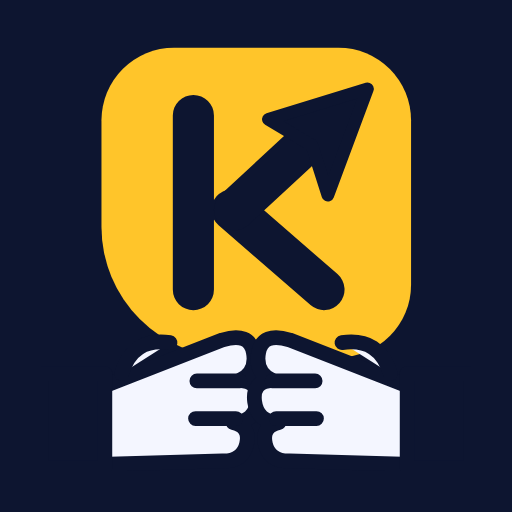
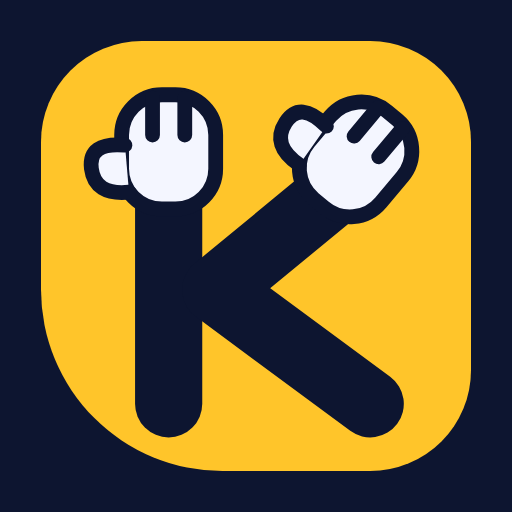
Símbolo: o K é feito de mãos (dois braços com as mãos levantadas), em vez de mãos por baixo do K

diff --git a/src/components/Logo.tsx b/src/components/Logo.tsx
@@ -1,26 +1,27 @@
 import { useId } from "react";
 
 /**
- * A marca da Kamba Traz: um K em forma de etiqueta de bagagem, cujo braço superior é um avião de papel,
- * entregue por duas mãos. Quem leva (o avião), quem confia (a etiqueta da mala) e quem entrega (as mãos). A mesma forma está em src/app/icon.svg.
+ * A marca da Kamba Traz: um K feito de mãos. A haste é um braço de mão levantada, e a perna do K é outro braço dobrado no cotovelo, também de mão levantada.
+ * Duas mãos a entregar, sobre a etiqueta de bagagem. A mesma forma está em src/app/icon.svg.
  */
 export function LogoMark({ size = 32 }: { size?: number }) {
   const id = useId().replace(/:/g, "");
   return (
     <svg width={size} height={size} viewBox="0 0 64 64" aria-hidden="true" focusable="false">
-    <g transform="translate(9 1) scale(.72)">
-      <path d="M15 0h34a15 15 0 0 1 15 15v34a15 15 0 0 1-15 15H27A27 27 0 0 1 0 37V15A15 15 0 0 1 15 0z" fill="#FFC52A"/>
-      <path d="M19 14v36M27 33.5l19 16.5" fill="none" stroke="#0D1530" strokeWidth="8.5" strokeLinecap="round" strokeLinejoin="round"/>
-      <path d="M27.5 33.5l13-12" fill="none" stroke="#0D1530" strokeWidth="8.5" strokeLinecap="round"/>
-      <path d="M55 8.5L34.5 14.8l9 5.4 3.3 10.3z" fill="#0D1530" stroke="#0D1530" strokeWidth="2.6" strokeLinejoin="round"/>
+    <defs>
+      <g id={`hd-${id}`} fill="#F4F6FF" stroke="#0D1530" strokeWidth="2.2" strokeLinejoin="round" strokeLinecap="round">
+        <rect x="-7" y="-9" width="14" height="17" rx="6"/>
+        <path d="M-2.4-8.5v5.5M2.4-8.5v5.5" fill="none"/>
+        <path d="M-6.5-1.5q-5.5-.5-5 3.5t5.6 3.5"/>
+      </g>
+    </defs>
+    <path d="M15 0h34a15 15 0 0 1 15 15v34a15 15 0 0 1-15 15H27A27 27 0 0 1 0 37V15A15 15 0 0 1 15 0z" fill="#FFC52A"/>
+    <g fill="none" stroke="#0D1530" strokeWidth="10" strokeLinecap="round" strokeLinejoin="round">
+      <path d="M19 24V54"/>
+      <path d="M49 54L26 37l17-14"/>
     </g>
-    <g id={`h-${id}`} stroke="#0D1530" strokeWidth="2.2" strokeLinejoin="round" strokeLinecap="round">
-      <path d="M9 51.5L27 44.5q4-1.2 4.6 1.8t-2 4.2q3 .2 2.6 3.2t-3.6 3.1q2.6.6 2 3.2t-3.6 2.5L9 63z" fill="#F4F6FF"/>
-      <path d="M12 49.5q1.6-5.4 7.2-4.6" fill="#F4F6FF"/>
-      <path d="M29.6 50.6h-6.4M29 56.2h-6" fill="none"/>
-      <path d="M0 49.5h9.5v14H0z" fill="#0D1530"/>
-    </g>
-    <use href={`#h-${id}`} transform="translate(64 0) scale(-1 1)"/>
+    <use href={`#hd-${id}`} transform="translate(19 17)" />
+    <use href={`#hd-${id}`} transform="translate(46.5 18) rotate(40)" />
     </svg>
   );
 }
